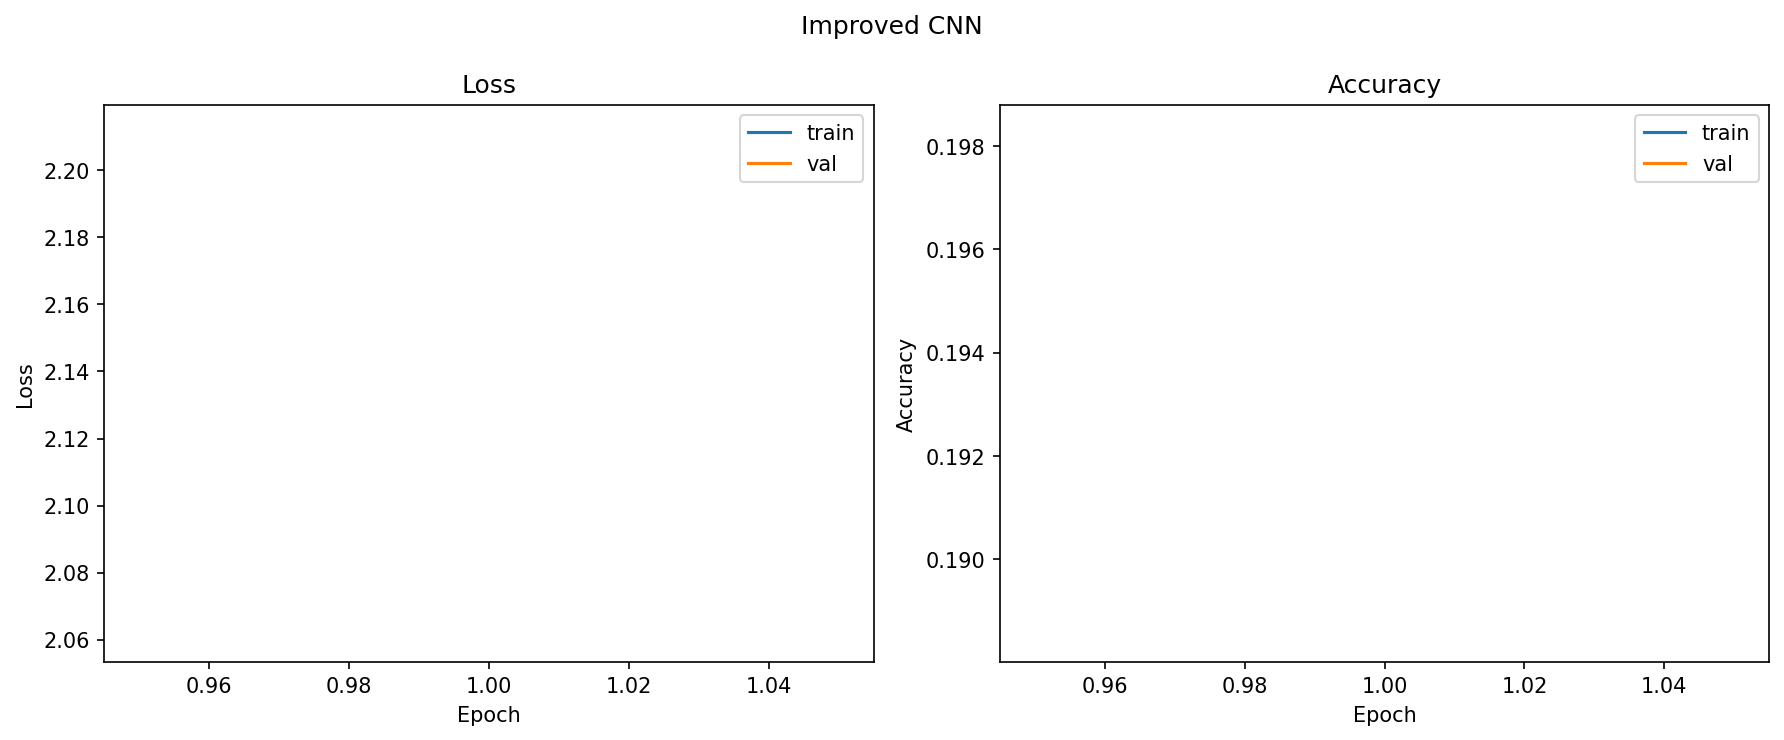
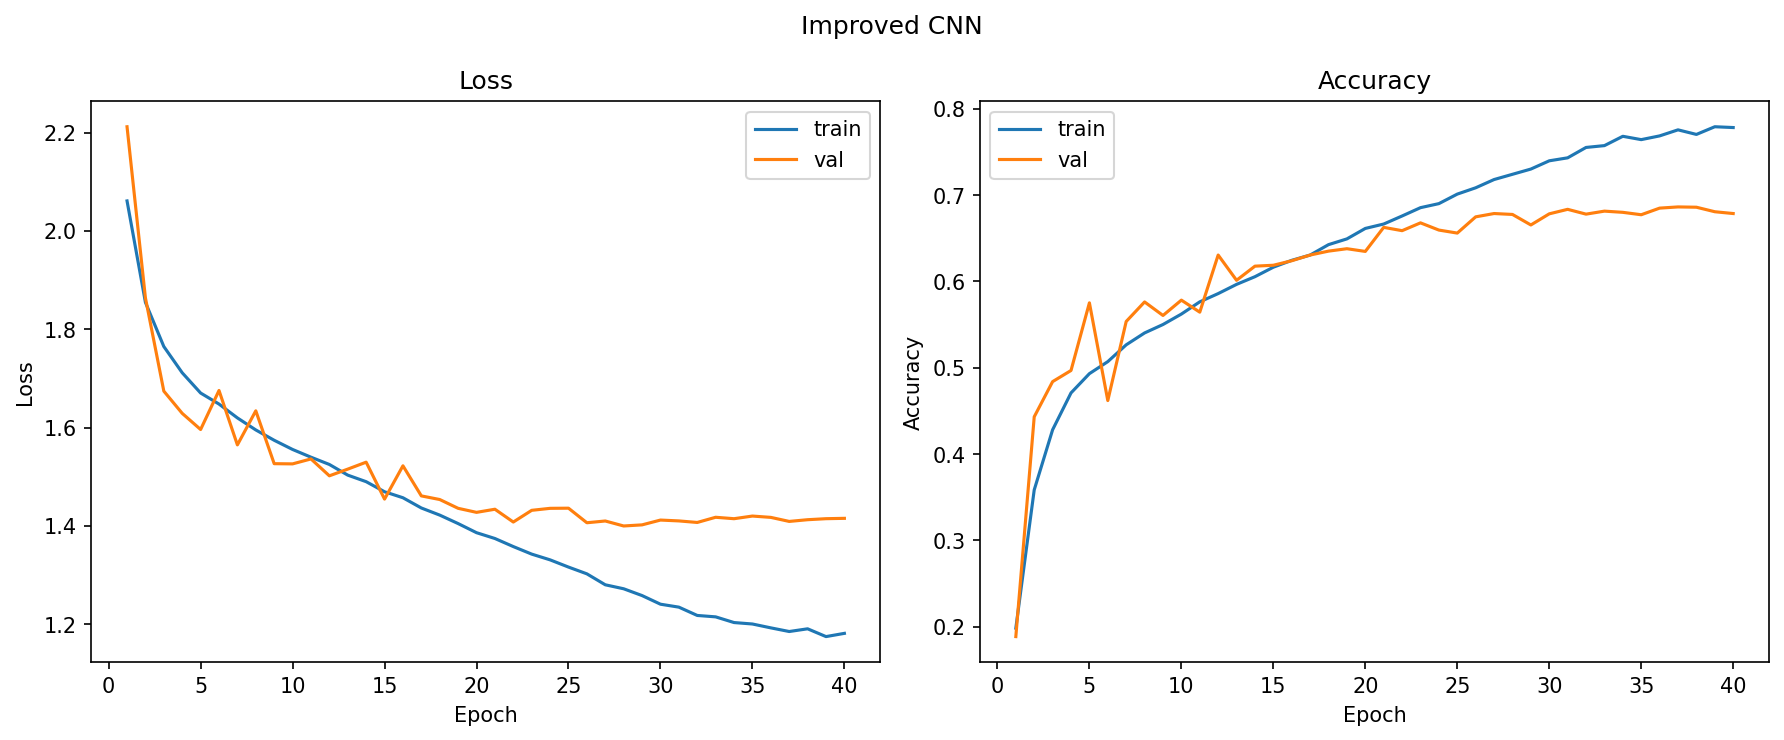
overwrite learning curve

diff --git a/report.tex b/report.tex
@@ -1,0 +1,137 @@
+\documentclass[10pt]{article}
+% Packages
+\usepackage[margin=0.75in]{geometry}
+\usepackage{amsmath, amssymb}
+\usepackage{graphicx}
+\usepackage{caption}
+\usepackage{subcaption}
+\usepackage{enumitem}
+\usepackage{hyperref}
+\usepackage{fancyhdr}
+\usepackage{titlesec}
+\usepackage{booktabs}
+\usepackage{wrapfig}
+\usepackage{xcolor}
+\hypersetup{colorlinks=true, linkcolor=blue, urlcolor=blue}
+\urlstyle{same}
+\pagestyle{fancy}
+\fancyhf{}
+\rhead{ML Project Report}
+\lhead{Doğa Devrim Çelik \& Weronika Zygis}
+\cfoot{\thepage}
+\titleformat{\section}{\normalsize\bfseries}{\thesection}{0.5em}{}
+\titleformat{\subsection}{\small\bfseries}{\thesubsection}{0.5em}{}
+\titlespacing*{\section}{0pt}{6pt}{3pt}
+\titlespacing*{\subsection}{0pt}{4pt}{2pt}
+\title{\textbf{\large Emotion Recognition Project Report}}
+\author{\small Doğa Devrim Çelik \& Weronika Zygis \\
+\small Applied Machine Learning in Python -- Ludwig-Maximilians-Universität München \\
+\small \texttt{wzygis@gmail.com} \quad \texttt{dogadevrimcelik@gmail.com}}
+\date{\vspace{-1em}\small\today}
+\begin{document}
+\maketitle
+\vspace{-1.5em}
+\section{Task Overview}
+\begin{wraptable}{r}{0.42\textwidth}
+\centering
+\vspace{-1.4em}
+\small
+\begin{tabular}{lrrr}
+\toprule
+\textbf{Emotion} & \textbf{Train} & \textbf{Test} & \textbf{Total}\\
+\midrule
+Angry    & 3995  & 958  & 4953\\
+Disgust  & 436   & 111  & 547\\
+Fear     & 4097  & 1024 & 5121\\
+Happy    & 7215  & 1774 & 8989\\
+Sad      & 4830  & 1247 & 6077\\
+Surprise & 3171  & 831  & 4002\\
+Neutral  & 4965  & 1233 & 6198\\
+\midrule
+\textbf{Total} & \textbf{28709} & \textbf{7178} & \textbf{35887}\\
+\bottomrule
+\end{tabular}
+\caption{\small FER-2013 class distribution.}
+\label{tab:fer_distribution}
+\end{wraptable}
+This project studies emotion recognition on \href{https://www.kaggle.com/datasets/msambare/fer2013/data}{FER-2013}, grayscale $48\times48$ face images labeled with 7 emotions (Angry, Disgust, Fear, Happy, Sad, Surprise, Neutral). We ask whether geometric features from dlib's 68-point facial landmarks are sufficient for classification, and compare a linear SVM, an RBF SVM, and a CNN trained directly on pixels.
+The dataset is heavily imbalanced (Table~\ref{tab:fer_distribution}: Happy has 16$\times$ more samples than Disgust) and has known label noise, with human annotator agreement around 65--70\% \cite{goodfellow2013challenges}, so no model can be expected to approach 100\% accuracy. Using landmark geometry instead of pixels also means the classifier only sees independent facial structure (eye/brow/mouth shape), so structurally similar emotions (Fear/Surprise, Neutral/Sad) are expected to be hard to separate. The $48\times48$ resolution is additionally a poor match for dlib (addressed in Section~\ref{sec:preprocessing}). Section~\ref{sec:preprocessing} describes how we try mitigate the resolution issue with upscaling. \textcolor{red}{CNN RESULTS HERE}
+\section{Methods}
+\subsection{Feature Extraction}
+\label{sec:preprocessing}
+\begin{wrapfigure}{r}{0.34\textwidth}
+\centering
+\vspace{-2.6em}
+\includegraphics[width=0.32\textwidth]{figures/compare_upscaling_best.png}\\[0.4em]
+\includegraphics[width=0.32\textwidth]{figures/figB_feature_heatmap.png}
+\caption{\small Top: detection rate, baseline vs.\ best upscaling. Bottom: feature--emotion correlation heatmap.}
+\label{fig:combined}
+\end{wrapfigure}
+Facial landmarks are extracted with dlib's \cite{king2009dlib} pretrained 68-point shape predictor \cite{kazemi2014one}. Since dlib's detector performs poorly at $48\times48$, we ablated 5 upscaling resolutions (96×96, 144×144, 192×192, 240×240, 288×288) against the raw baseline: 144$\times$144 upscaling gave the best detection rate ($\sim$9pp over baseline) and was used for all downstream results. We separately tested CLAHE contrast enhancement. It marginally improved dlib detection but consistently hurt SVM macro F1 (plausibly by amplifying noise at this resolution) as seen by our SVM ablation studies, so the final pipeline uses upscaling without CLAHE. A number of images fail detection even after upscaling (blank frames, logos, extreme lighting) and are dropped. All plots from this ablation and examples of hard fails and saved figures are documented in the \href{https://github.com/werka-z/emotion-recognition/tree/main/ablation_results}{GitHub ablation results subdir}.
+From the 68 landmarks we computed 28 geometric features (pairwise distances, ratios, and asymmetries), normalized by inter-ocular distance for scale invariance and inspired by the Facial Action Coding System \cite{FACS}. \href{https://en.wikipedia.org/wiki/Facial_Action_Coding_System}{The Wikipedia page of FACS} has a table explaining each muscle group and the resulting face movement. The explanations of each feature implemented is in the \href{https://github.com/werka-z/emotion-recognition/blob/main/SVM_notebook.ipynb}{Jupyter Notebook file in our repo}. Figure~\ref{fig:combined} (bottom) shows per-class feature correlations: Happy and Surprise each have a distinctive signature (smile features vs.\ eye/brow opening), while Angry, Sad, Fear, and Neutral cluster closely with no single strongly separating feature, foreshadowing the confusions seen in \ref{sec:results}. An ablation over feature count found 26 of 28 features optimal by macro F1 (28 by accuracy, difference $<0.003$) as seen from the \href{https://github.com/werka-z/emotion-recognition/blob/main/ablation_results/linear_svm_ablation/feature_sweep/fig_feature_count_sweep.png}{feature ablation figure}. The last two features in the figure were dropped resulting from the ablation, but it is also visible from the heatmap that they do not have any significant correlations with any of the labels. All SVM results below use the top 26 features. 
+\subsection{Linear SVM}
+We extended courselib's linear multiclass framework with a multiclass hinge loss and trained by (sub)gradient descent (gradient masking on margin-violating samples, inverse-decay learning rate), optionally with inverse-frequency class weighting to counter imbalance. A full ablation over preprocessing, feature scaling, class weighting, $C\in\{1,10,100,1000\}$, and feature count (1,536 configurations, ranked by macro F1) found: no feature scaling collapses performance (macro F1 $\approx$0.1--0.2); $C{=}1000$ is best within the grid; and class weighting trades $\sim$\textbf{5pp accuracy} for substantially better Disgust recall  ($0\%\to53\%$). The best accuracy without balancing expectedly maximizes the Happy predictions, the most sample heavy class, while sacrificing the least heavy one. The best macro F1 configuration ($C{=}1000$, clip-at-2$\sigma$ scaling, balanced weighting, 26 features) reaches \textbf{accuracy 0.4674, macro F1 0.3917} on the full test set, with train/test learning curves tracking closely (no overfitting). The whole ablation heatmaps can be found in the \href{https://github.com/werka-z/emotion-recognition/blob/main/ablation_results/linear_svm_ablation/26feat/fig_macro_f1_heatmap.png}{ablation figure}. 
+\begin{figure}[h]
+    \centering
+    \begin{subfigure}[b]{0.49\textwidth}
+        \centering
+        \includegraphics[width=\textwidth,height=4.5cm]{figures/fig_linear_learning_curve.png}
+        \caption{\small Train/test learning curves}
+    \end{subfigure}
+    \hfill
+    \begin{subfigure}[b]{0.5\textwidth}
+        \centering
+        \includegraphics[width=\textwidth,height=4.5cm]{figures/fig_best_cm.png}
+        \caption{\small Confusion matrix, best config}
+    \end{subfigure}
+    \caption{\small Linear SVM: learning curves and confusion matrix for the best configuration ($C{=}1000$, clip-2$\sigma$, balanced weighting).}
+    \label{fig:linear_details}
+\end{figure}
+\subsection{RBF SVM}
+We wrapped courselib's binary kernel SVM (solved via \texttt{cvxopt} QP) in a one-vs-rest scheme. The bandwidth $\sigma$ was initialized at the median pairwise-distance heuristic ($\sigma_\text{med}{=}5.94$) and searched over $\{0.5\times,1\times,2\times\}$ that value against $C\in\{0.1,1,10,100\}$ on a 6{,}000-sample subsample. All relevant plots such as the grid search heatmap and the metrics vs. training size plots are in our \href{https://github.com/werka-z/emotion-recognition/tree/main/ablation_results/rbf_grid_search}{grid results subfolder}. The best configuration was $C{=}10,\ \sigma{=}2.90$. Because \texttt{cvxopt}'s QP solver materializes the full $N{\times}N$ kernel matrix ($\approx$4GB per binary classifier at full scale), courselib's implementation cannot fit the full 22{,}578-sample training set in 16GB of memory. We report this configuration on a 9{,}996-sample subsample (\textbf{accuracy 0.5343, macro F1 0.4652}) alongside an sklearn \texttt{SVC} run with identical hyperparameters on the \emph{full} dataset as a reference point, since sklearn's libsvm/SMO solver never builds the full kernel matrix (\textbf{accuracy 0.5697, macro F1 0.5133}). Courselib's dual formulation does not expose per-sample weights, so no class weighting was used for either RBF run.
+\begin{figure}[h!]
+    \centering
+    \begin{subfigure}[b]{0.45\textwidth}
+        \includegraphics[width=\textwidth, height=6cm]{figures/fig_rbf_cm.png}
+        \caption{\small Courselib RBF confusion matrix}
+    \end{subfigure}
+    \hfill
+    \begin{subfigure}[b]{0.45\textwidth}
+        \includegraphics[width=\textwidth, height=6cm]{figures/fig_rbf_sklearn_cm.png}
+        \caption{\small Sklearn RBF confusion matrix}
+    \end{subfigure}
+    \caption{\small Confusion matrices, Courselib RBF model vs.\ Sklearn (full-dataset) RBF model.}
+    \label{fig:final_cms}
+\end{figure}
+\subsection{CNN Model}
+\textcolor{red}{TO BE WRITTEN}
+\section{Results}
+\label{sec:results}
+Table~\ref{tab:results} compares \textcolor{red}{ADD CNN RESULTS TO TABLE AND MODIFY THE PARAGRAPH} all three completed SVM configurations on the shared 26-feature, \texttt{up\_no\_cl}, clip-2$\sigma$ representation. Two things stand out. First, the RBF kernel beats the linear model on both metrics even when trained on fewer than half the samples, indicating the 7 classes are not linearly separable in this 26-dimensional feature space. Second, training-set size matters as much as the kernel choice: moving the RBF SVM from 9{,}996 to 22{,}578 samples (same $C,\sigma$) raises macro F1 more than switching from linear to (subsampled) RBF does, confirming that the memory limit was the main bottleneck. Third, the unweighted RBF SVM reaches 31.5\% Disgust recall without any class-weighting trick, comparable to what the linear SVM only achieves by explicitly reweighting the loss (at a $\sim$5pp accuracy cost elsewhere), suggesting some of what weighting compensates for in the linear case is limited model capacity, not only class imbalance. Sad and Fear remain the hardest classes throughout (recall $<$30\%), consistent with Figure~\ref{fig:combined} (bottom). Sad and Neutral share many similar features, as well as some with Fear. Therefore, it is expected that negative emotions without characteristic expressions are commonly misclassified as others. Some of the misclassification examples can be found in our \href{https://github.com/werka-z/emotion-recognition/tree/main/model_results}{model results folder}, in each model's subfolder.
+\begin{table}[h]
+\centering
+\small
+\begin{tabular}{lrrr}
+\toprule
+\textbf{Metric} & \textbf{Linear SVM (courselib)} & \textbf{RBF SVM (courselib)} & \textbf{RBF SVM (sklearn)}\\
+\midrule
+Training samples & 22{,}578 (full) & 9{,}996 (subsample) & 22{,}578 (full) \\
+Accuracy  & 0.4674 & 0.5343 & 0.5697 \\
+Macro F1  & 0.3917 & 0.4652 & 0.5133 \\
+\bottomrule
+\end{tabular}
+\caption{\small Test-set results, all three SVM configurations. CNN row to be added by teammate.}
+\label{tab:results}
+\end{table}
+\vspace{-0.5em}
+
+\section{Discussion}
+The RBF SVM's advantage was driven mainly by training-set size, not kernel flexibility alone: courselib's \texttt{cvxopt}-based solver is memory-bound to $O(N^2)$ and could not use the full dataset, and its dual formulation has no mechanism for class weighting, unlike the linear model. Ablations were run sequentially rather than jointly on the RBF models (preprocessing fixed before scaling/hyperparameter search) due to the two-week timeframe, so interaction effects between preprocessing and RBF bandwidth cannot be ruled out; we treat this, and the \texttt{cvxopt} memory limit, as accepted, documented limitations rather than problems solved in this iteration. dlib's detector is a further bottleneck at FER-2013's $48\times48$ resolution, discarding a high number of images even after upscaling. Separately, reproducing the linear SVM's exact ablation-winning result required care: since \texttt{linear\_svm\_ablation.py} advances a single global RNG stream across 1{,}536 sequential fits, retraining the winner in isolation with a fresh seed does not reproduce the same numbers -- \texttt{final\_models.py} instead replays the exact prior RNG draws before training, a general lesson for any pipeline sharing one sequential RNG stream. With more time we would run all ablation axes jointly, implement a memory-efficient (SMO-style) solver inside courselib to enable full-dataset, class-weighted RBF training, and combine the geometric features with the CNN's pixel representation. \textcolor{red}{ADD CNN DISCUSSIONS}
+\begin{thebibliography}{9}
+\small
+\bibitem{king2009dlib} King, D. E. (2009). \textit{Dlib-ml: A machine learning toolkit}. JMLR, 10, 1755--1758.
+\bibitem{kazemi2014one} Kazemi, V., \& Sullivan, J. (2014). \textit{One millisecond face alignment with an ensemble of regression trees}. CVPR, 1867--1876.
+\bibitem{goodfellow2013challenges} Goodfellow, I. J. et al. (2013). \textit{Challenges in representation learning: A report on three machine learning contests}. ICONIP, 117--124.
+\bibitem{FACS} Ekman, P., Friesen, W. V., \& Hager, J. C. (2002). \textit{Facial Action Coding System: The Manual}. Salt Lake City: A Human Face.
+\end{thebibliography}
+\end{document}
